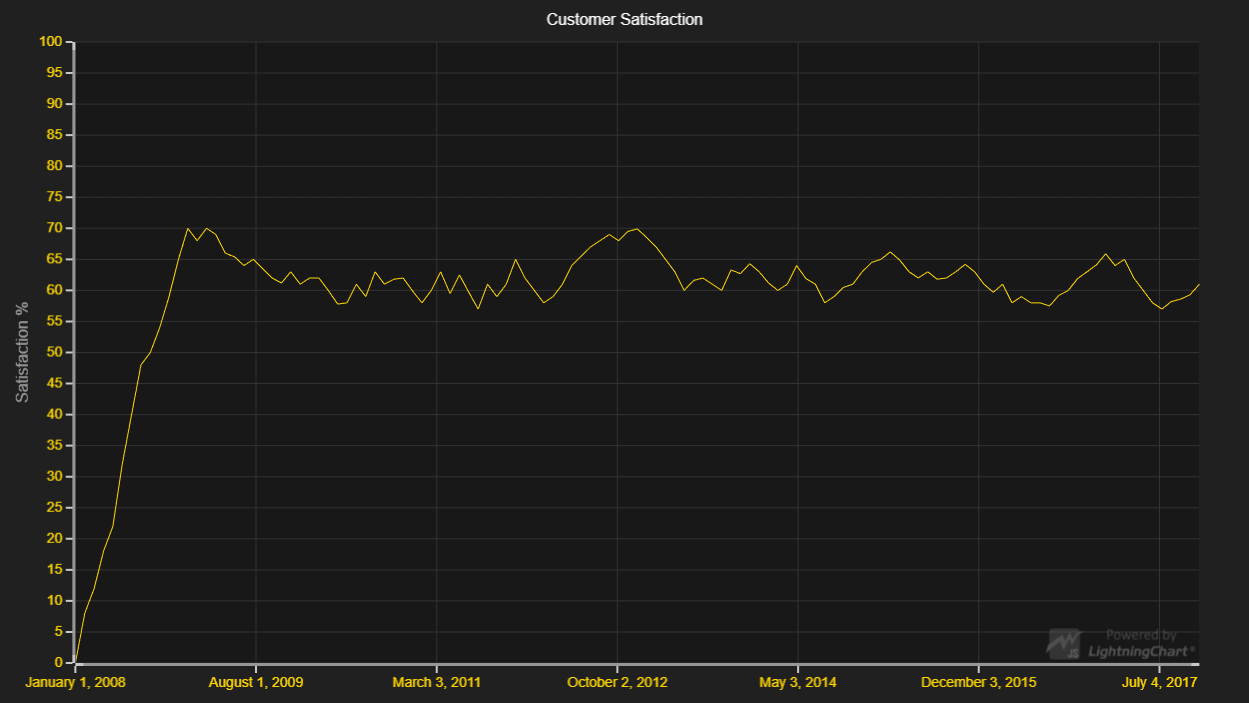
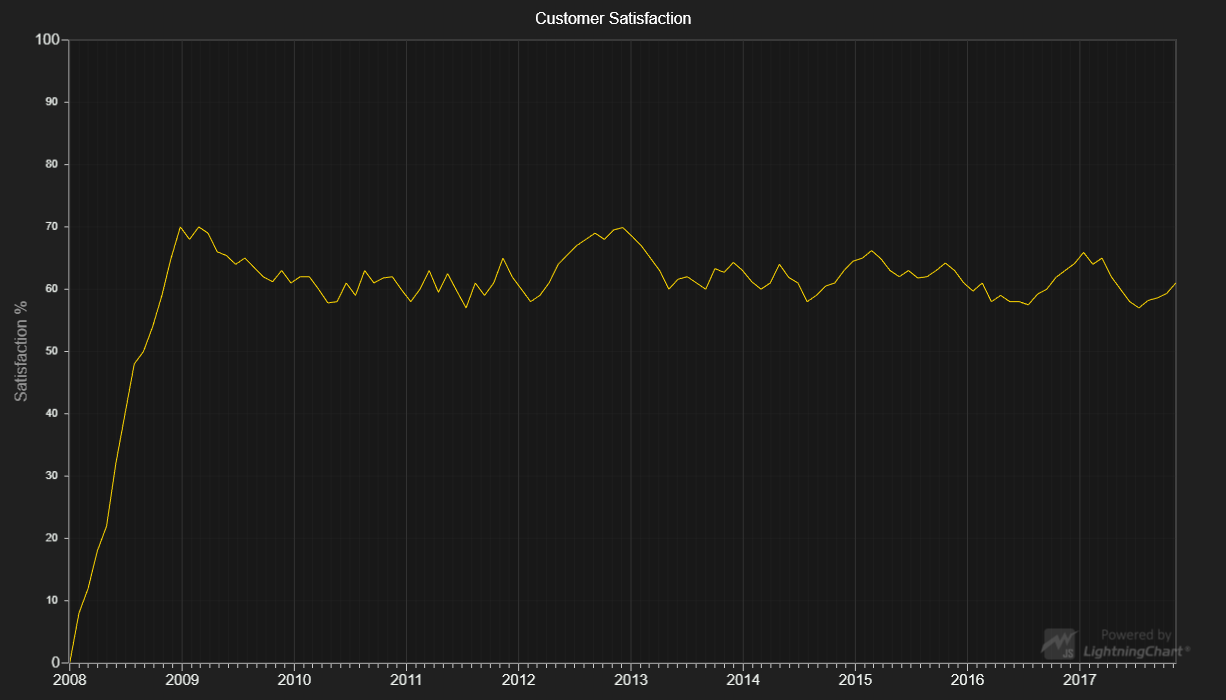
LCJS 2.0.0

diff --git a/src/index.js b/src/index.js
@@ -8,15 +8,23 @@ const lcjs = require('@arction/lcjs')
 const {
     lightningChart,
     AxisTickStrategies,
-    DataPatterns
+    DataPatterns,
+    Themes
 } = lcjs
 
 // Create a XY Chart.
 const dateOrigin = new Date(2008, 0, 1)
 const chart = lightningChart().ChartXY({
-    defaultAxisXTickStrategy: AxisTickStrategies.DateTime(dateOrigin)
+    // theme: Themes.dark
 })
-    .setTitle('Customer Satisfaction')
+chart.getDefaultAxisX()
+    .setTickStrategy(
+        // Use DateTime TickStrategy for this Axis
+        AxisTickStrategies.DateTime,
+        // Modify the DateOrigin of the TickStrategy
+        (tickStrategy) => tickStrategy.setDateOrigin(dateOrigin)
+    )
+chart.setTitle('Customer Satisfaction')
 
 chart.setPadding({ right: '5' })
 

diff --git a/README.md b/README.md
@@ -21,29 +21,29 @@ The demo can be used as an example or a seed project. Local execution requires t
 
 This example shows creation of a DateTime Axis, for rendering XY-series where either/both of X/Y dimensions can present *time*. This doesn't affect the input of data - format remains as *{x: number, y: number}* - however, DateTime-axes format their values from number to a date and time. This affects axis labels, markers and cursors.
 
-A DateTime-*Axis* is created by specifying its *TickStrategy*. Here's how it looks when creating a new *Axis*:
+A DateTime-*Axis* is created by specifying its *TickStrategy*. Here's how it looks when setting the *Axis TickStrategy*:
 
 ```javascript
-const bottomAxisDateTime = chart.addAxisX(false, AxisTickStrategies.DateTime())
-```
-
-If you want to specify the *TickStrategy* of a default *Axis*, you must do it when constructing the *ChartXY* using *ChartXYOptions* interface:
-```javascript
-const chart = lightningChart().ChartXY({
-    // ChartXYOptions
-    defaultAxisXTickStrategy: AxisTickStrategies.DateTime()
-})
+// Add an XY Chart
+const chart = lightningChart().ChartXY({})
+// Set the TickStrategy of the default X Axis to a DateTime TickStrategy
+chart.getDefaultAxisX().setTickStrategy( AxisTickStrategies.DateTime )
 ```
 
 The above mentioned examples will provide an Axis that will format its scale values to their DateTime-representations. This conversion relies on a reference date, further referred to as *origin-date*. This *origin-date* specifies the DateTime value that is equal to *zero* as a numeric representation. Incremental values will result in progressive DateTimes by milliseconds. For example, given *origin-date* is equal to the **1st of January 2002, 2PM**, a numeric value of **7,200,000** would be translated to **1st of January 2002 4PM**.
 
-As such, the *origin-date* must be able to be specified to whichever DateTime is desired. It is done by passing a *javascript Date object* to the function that creates the *DateTime TickStrategy*:
+Translating this to how we can modify the origin date in our Axis, we can do this by adding a mutator to the setTickStrategy() method to modify the origin date:
 
 ```javascript
 // Define the origin-date. (y, m [0-11], d [1-31], h [0-23])
 const originDate = new Date(2002, 0, 1, 13)
 // Create DateTime AxisTickStrategy with specified originDate.
-const dateTimeTickStrategy = AxisTickStrategies.DateTime(originDate)
+chart.getDefaultAxisX()
+    .setTickStrategy(
+        AxisTickStrategies.DateTime,
+        // Use a mutator to set the origin date for this Axis' TickStrategy
+        (tickStrategy) => tickStrategy.setDateOrigin(originDate)
+    )
 ```
 
 If this *TickStrategy* would be supplied to an *X-Axis*, it would effectively mean that its scale would start from 1st of January 2002 14PM, so a *XY-point* with coordinates `{ x: 0, y: 0 }` would be formated as `{ x: "1.1.2002 14:00", y: 0 }`.
@@ -54,9 +54,9 @@ It is worth mentioning that big *DateTime*-intervals can produce severe precisio
 
 ## API Links
 
-* Axis tick strategies: [AxisTickStrategies]
-* XY cartesian chart: [ChartXY]
-* Progressive line series: [ProgressiveLineSeries]
+* [Axis tick strategies]
+* [XY cartesian chart]
+* [Progressive line series]
 
 
 ## Support
@@ -80,7 +80,7 @@ Direct developer email support can be purchased through a [Support Plan][4] or b
 © Arction Ltd 2009-2020. All rights reserved.
 
 
-[AxisTickStrategies]: https://www.arction.com/lightningchart-js-api-documentation/v1.3.0/globals.html#axistickstrategies
-[ChartXY]: https://www.arction.com/lightningchart-js-api-documentation/v1.3.0/classes/chartxy.html
-[ProgressiveLineSeries]: https://www.arction.com/lightningchart-js-api-documentation/v1.3.0/classes/progressivelineseries.html
+[Axis tick strategies]: https://www.arction.com/lightningchart-js-api-documentation/v2.0.0/globals.html#axistickstrategies
+[XY cartesian chart]: https://www.arction.com/lightningchart-js-api-documentation/v2.0.0/classes/chartxy.html
+[Progressive line series]: https://www.arction.com/lightningchart-js-api-documentation/v2.0.0/classes/progressivelineseries.html
 
